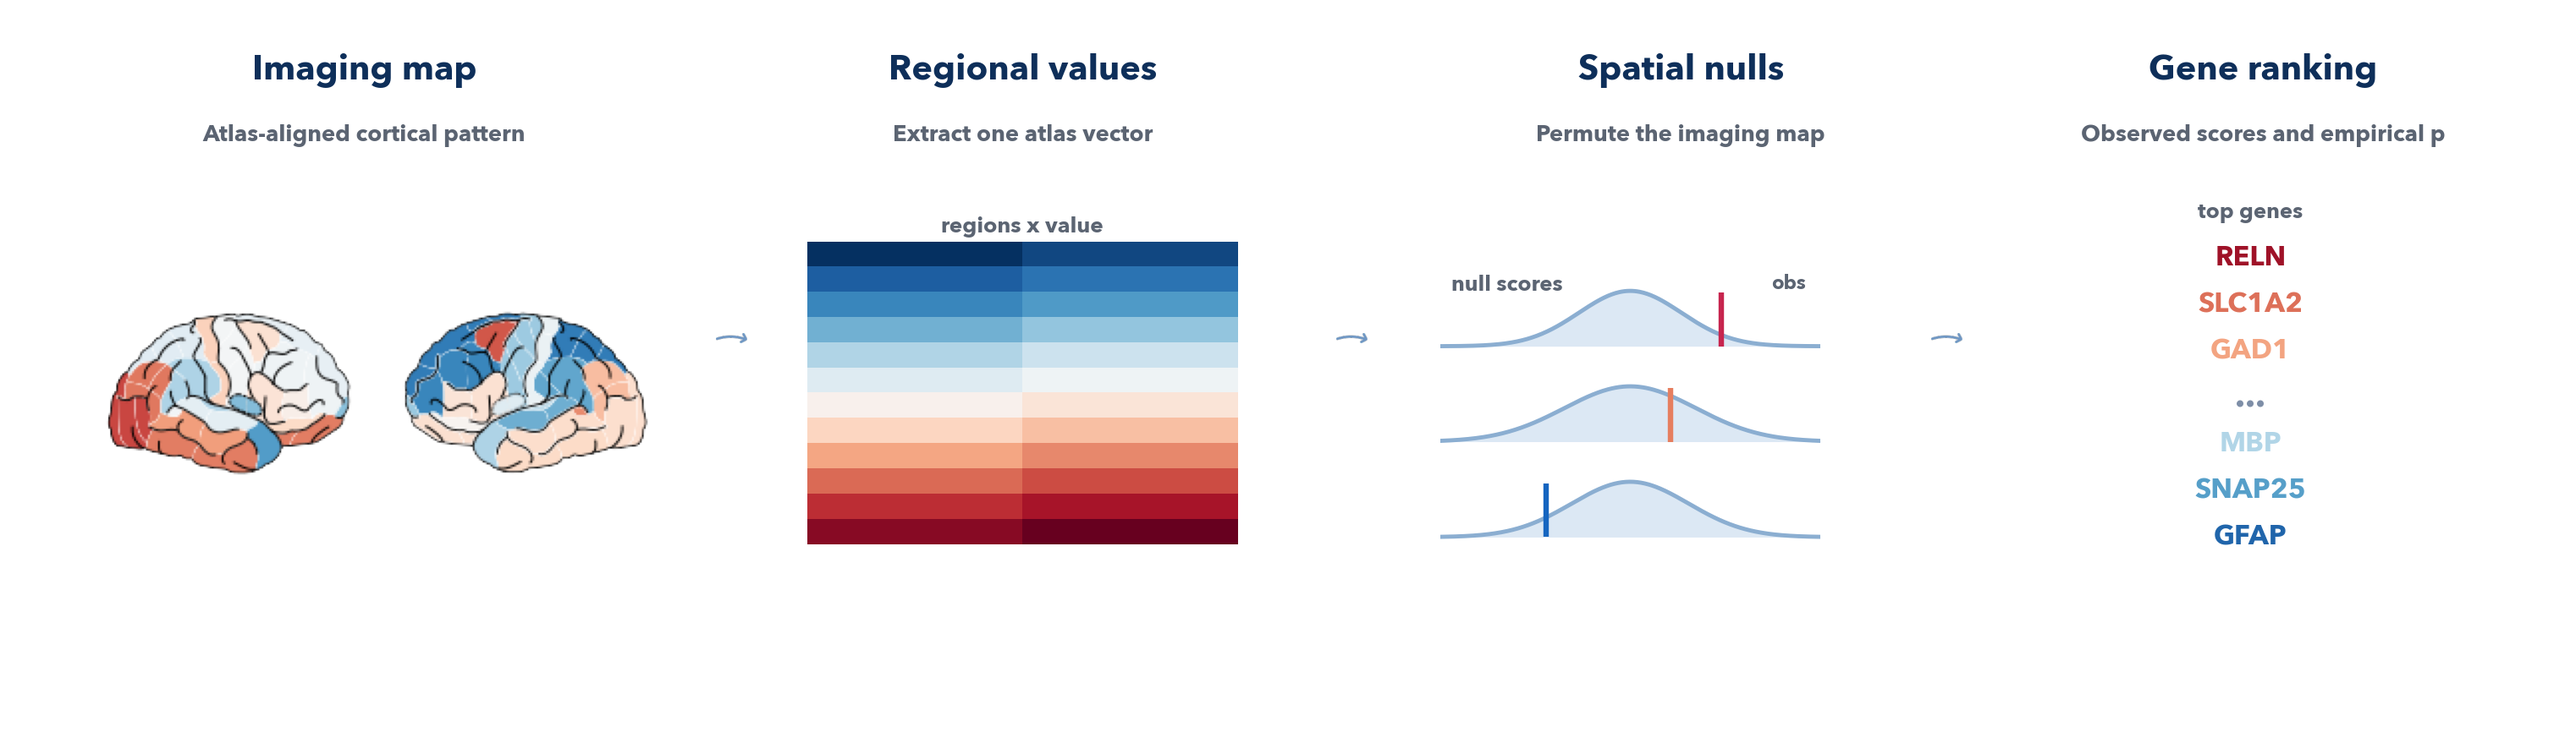
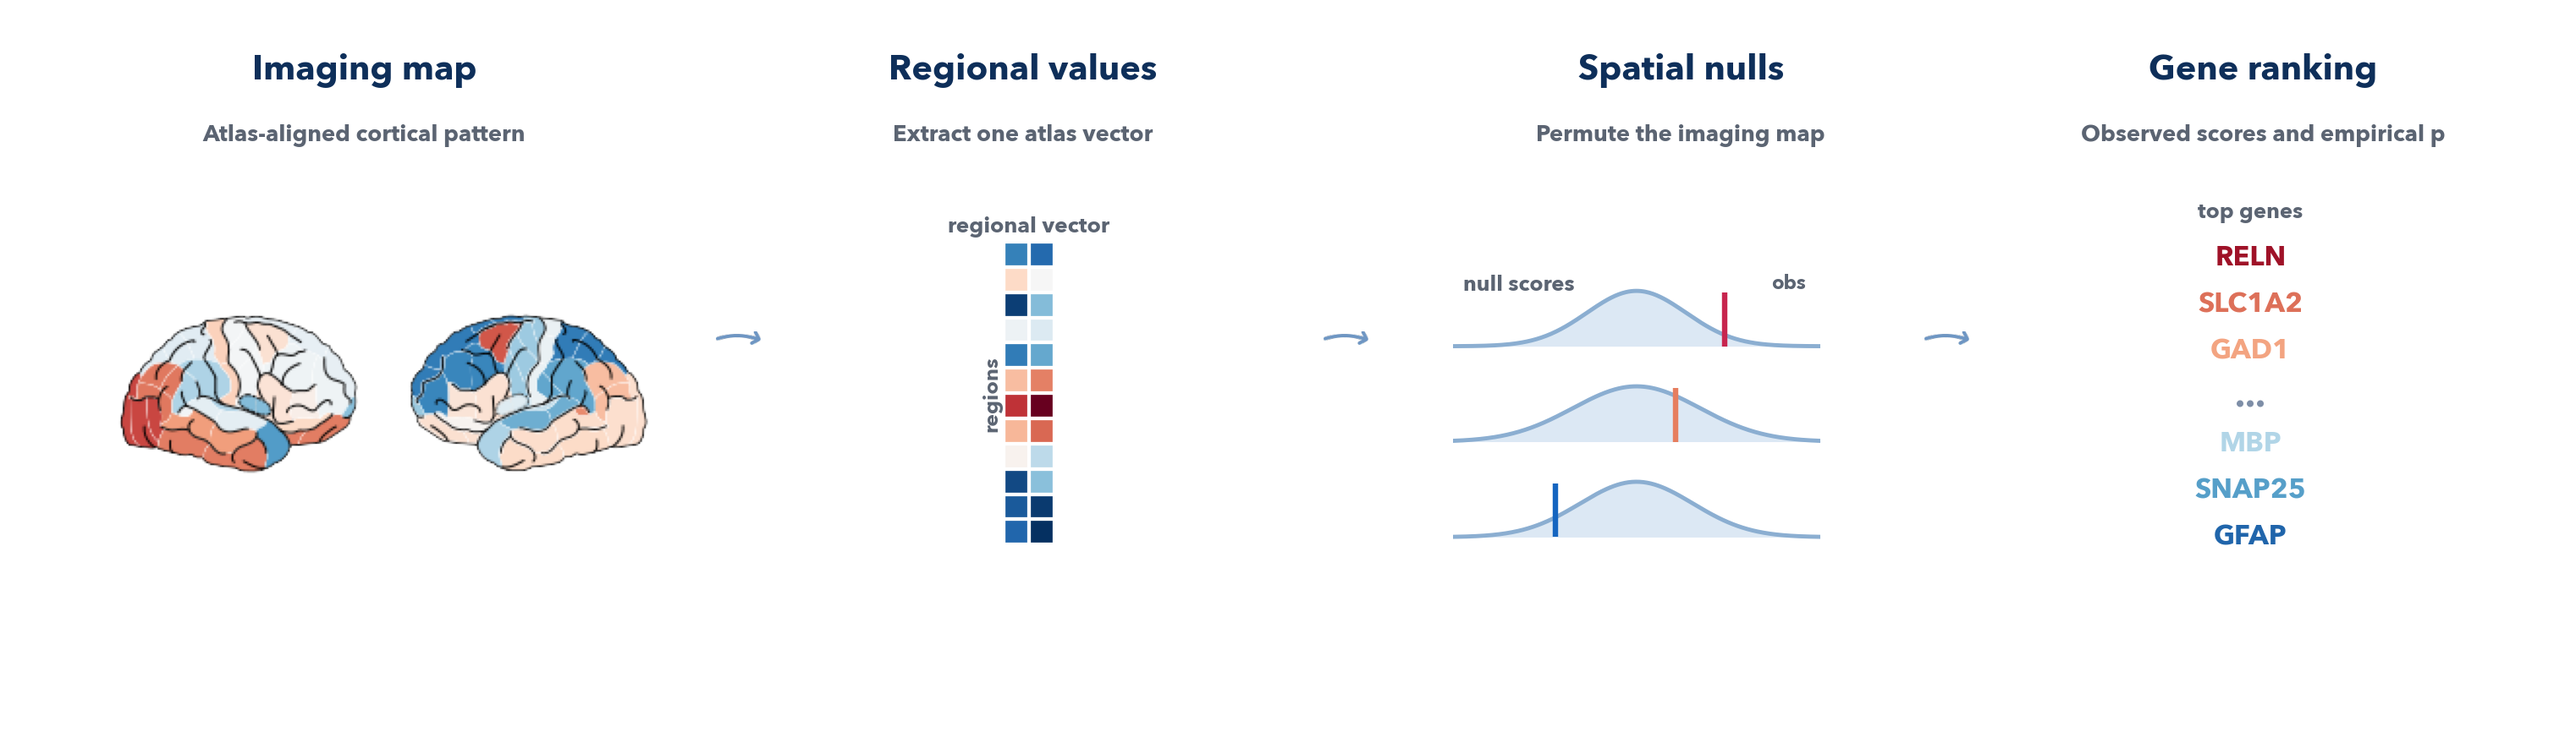
docs: refine workflow figure spacing

diff --git a/tools/render_workflow_story_figures.py b/tools/render_workflow_story_figures.py
@@ -14,6 +14,7 @@ import matplotlib.pyplot as plt
 import numpy as np
 from matplotlib import colormaps
 from matplotlib.colors import Normalize
+from matplotlib.patches import FancyBboxPatch
 from PIL import Image
 
 import pySimpleBrainPlot as psbp
@@ -51,6 +52,30 @@ def _brain_values(seed: int, *, scale: float = 1.9) -> np.ndarray:
     )
     signal /= np.max(np.abs(signal))
     return signal * scale
+
+
+def _smooth_profile(values: np.ndarray, window: int = 3) -> np.ndarray:
+    if values.size <= 1:
+        return values
+    window = min(window, values.size)
+    if window <= 1:
+        return values
+    pad_left = window // 2
+    pad_right = window - 1 - pad_left
+    padded = np.pad(values, (pad_left, pad_right), mode="edge")
+    kernel = np.ones(window) / window
+    return np.convolve(padded, kernel, mode="valid")
+
+
+def _blocky_matrix(rows: int, cols: int, seed: int, *, scale: float = 1.0) -> np.ndarray:
+    rng = np.random.default_rng(seed)
+    row_profile = rng.normal(0, 0.9, rows)
+    col_profile = rng.normal(0, 0.9, cols)
+    row_profile = _smooth_profile(row_profile)
+    col_profile = _smooth_profile(col_profile)
+    data = np.outer(row_profile, col_profile) + 0.28 * rng.normal(size=(rows, cols))
+    data /= np.max(np.abs(data))
+    return data * scale
 
 
 def _trim_image(img: Image.Image, *, pad: int = 6) -> Image.Image:
@@ -161,7 +186,7 @@ def _add_stage_title(fig: plt.Figure, x: float, title: str, subtitle: str) -> No
     )
 
 
-def _add_arrow(fig: plt.Figure, x0: float, x1: float, *, y: float = 0.54, width: float = 0.045) -> None:
+def _add_arrow(fig: plt.Figure, x0: float, x1: float, *, y: float = 0.54, width: float = 0.064) -> None:
     arrow = _load_arrow_image()
     height = width * (arrow.shape[0] / arrow.shape[1])
     left = ((x0 + x1) / 2) - (width / 2)
@@ -176,15 +201,63 @@ def _add_image(fig: plt.Figure, image: np.ndarray, rect: list[float]) -> None:
     ax.axis("off")
 
 
-def _add_heatmap(fig: plt.Figure, rect: list[float], data: np.ndarray, *, cmap: str, title: str | None = None) -> None:
-    ax = fig.add_axes(rect)
-    ax.imshow(data, cmap=cmap, aspect="auto")
+def _style_tile_panel(ax: plt.Axes) -> None:
     ax.set_xticks([])
     ax.set_yticks([])
     for spine in ax.spines.values():
         spine.set_visible(False)
+    ax.set_facecolor("none")
+
+
+def _add_heatmap(
+    fig: plt.Figure,
+    rect: list[float],
+    data: np.ndarray,
+    *,
+    cmap: str,
+    title: str | None = None,
+    left_label: str | None = None,
+    left_label_x: float = -0.16,
+    title_pad: float = 4.0,
+    rounded: bool = True,
+) -> None:
+    ax = fig.add_axes(rect)
+    if rounded:
+        bg = FancyBboxPatch(
+            (0.0, 0.0),
+            1.0,
+            1.0,
+            boxstyle="round,pad=0.02,rounding_size=0.05",
+            transform=ax.transAxes,
+            facecolor="#F4F8FC",
+            edgecolor="#D7E3F0",
+            linewidth=0.8,
+            zorder=-20,
+        )
+        ax.add_patch(bg)
+
+    ax.imshow(data, cmap=cmap, aspect="equal", interpolation="nearest", zorder=1)
+    ax.set_anchor("C")
+    n_rows, n_cols = data.shape
+    ax.set_xticks(np.arange(-0.5, n_cols, 1), minor=True)
+    ax.set_yticks(np.arange(-0.5, n_rows, 1), minor=True)
+    ax.grid(which="minor", color=(1, 1, 1, 0.92), linewidth=1.4)
+    ax.tick_params(which="minor", bottom=False, left=False)
+    _style_tile_panel(ax)
     if title:
-        ax.set_title(title, fontsize=8.5, color="#5B6472", pad=4)
+        ax.set_title(title, fontsize=8.5, color="#5B6472", pad=title_pad)
+    if left_label:
+        ax.text(
+            left_label_x,
+            0.5,
+            left_label,
+            transform=ax.transAxes,
+            rotation=90,
+            ha="center",
+            va="center",
+            fontsize=8.0,
+            color="#5B6472",
+        )
 
 
 def _add_gene_column(
@@ -244,14 +317,26 @@ def _add_component_summary(fig: plt.Figure, rect: list[float]) -> None:
     ax.set_facecolor("none")
 
 
-def _add_weighted_strip(fig: plt.Figure, rect: list[float]) -> None:
-    ax = fig.add_axes(rect)
+def _add_weighted_strip(
+    fig: plt.Figure,
+    rect: list[float],
+    *,
+    title: str | None = None,
+    left_label: str | None = None,
+    left_label_x: float = -0.16,
+    title_pad: float = 4.0,
+) -> None:
     vals = np.linspace(-1.6, 1.6, 12).reshape(-1, 1)
-    ax.imshow(vals, cmap="RdBu_r", aspect="auto")
-    ax.set_xticks([])
-    ax.set_yticks([])
-    for spine in ax.spines.values():
-        spine.set_visible(False)
+    _add_heatmap(
+        fig,
+        rect,
+        vals,
+        cmap="RdBu_r",
+        title=title,
+        left_label=left_label,
+        left_label_x=left_label_x,
+        title_pad=title_pad,
+    )
 
 
 def _add_null_panel(fig: plt.Figure, rect: list[float]) -> None:
@@ -296,14 +381,22 @@ def render_correlation() -> None:
     _add_stage_title(fig, 0.655, "Spatial nulls", "Permute the imaging map")
     _add_stage_title(fig, 0.885, "Gene ranking", "Observed scores and empirical p")
 
-    _add_image(fig, brain, [0.03, 0.22, 0.22, 0.48])
-    _add_heatmap(fig, [0.31, 0.24, 0.17, 0.44], np.linspace(-1, 1, 24).reshape(12, 2), cmap="RdBu_r", title="regions x value")
-    _add_null_panel(fig, [0.56, 0.23, 0.15, 0.43])
-    _add_gene_column(fig, [0.80, 0.17, 0.16, 0.58], ["RELN", "SLC1A2", "GAD1", "...", "MBP", "SNAP25", "GFAP"], [1.7, 1.1, 0.8, 0.0, -0.6, -1.1, -1.6], heading="top genes")
+    _add_image(fig, brain, [0.035, 0.22, 0.215, 0.48])
+    _add_heatmap(
+        fig,
+        [0.315, 0.24, 0.165, 0.44],
+        _blocky_matrix(12, 2, 21, scale=1.2),
+        cmap="RdBu_r",
+        title="regional vector",
+        left_label="regions",
+        left_label_x=-0.22,
+    )
+    _add_null_panel(fig, [0.565, 0.23, 0.145, 0.43])
+    _add_gene_column(fig, [0.805, 0.17, 0.15, 0.58], ["RELN", "SLC1A2", "GAD1", "...", "MBP", "SNAP25", "GFAP"], [1.7, 1.1, 0.8, 0.0, -0.6, -1.1, -1.6], heading="top genes")
 
-    _add_arrow(fig, 0.245, 0.315)
-    _add_arrow(fig, 0.485, 0.565)
-    _add_arrow(fig, 0.73, 0.79)
+    _add_arrow(fig, 0.25, 0.315)
+    _add_arrow(fig, 0.48, 0.565)
+    _add_arrow(fig, 0.715, 0.805)
     _save(fig, "correlation_pipeline_story.png")
 
 
@@ -315,16 +408,22 @@ def render_pls() -> None:
     _add_stage_title(fig, 0.655, "Latent components", "Find multivariate gene axes")
     _add_stage_title(fig, 0.885, "Component genes", "Inspect aligned weights")
 
-    _add_image(fig, brain, [0.03, 0.22, 0.22, 0.48])
-    matrix = np.outer(np.linspace(-1, 1, 12), np.linspace(1, -1, 10))
-    _add_heatmap(fig, [0.305, 0.21, 0.18, 0.49], matrix, cmap="viridis", title="regions x genes")
-    _add_heatmap(fig, [0.57, 0.28, 0.10, 0.34], np.array([[1.0, -0.5], [0.6, 0.2], [-0.7, 0.9], [-1.0, 0.4], [0.4, -0.9]]), cmap="RdBu_r", title="weights")
-    _add_component_summary(fig, [0.68, 0.30, 0.1, 0.30])
-    _add_gene_column(fig, [0.82, 0.17, 0.14, 0.58], ["CAMK2A", "RELN", "GRIN2B", "...", "MBP", "GFAP", "PDYN"], [1.6, 1.1, 0.7, 0.0, -0.5, -1.0, -1.5], heading="PLS1")
+    _add_image(fig, brain, [0.035, 0.22, 0.215, 0.48])
+    _add_heatmap(fig, [0.31, 0.21, 0.175, 0.49], _blocky_matrix(12, 10, 7), cmap="viridis", title="expression matrix", left_label="regions")
+    _add_heatmap(
+        fig,
+        [0.575, 0.285, 0.09, 0.33],
+        _blocky_matrix(6, 3, 31, scale=1.2),
+        cmap="RdBu_r",
+        title="gene weights",
+        left_label="genes",
+    )
+    _add_component_summary(fig, [0.655, 0.30, 0.11, 0.30])
+    _add_gene_column(fig, [0.81, 0.17, 0.145, 0.58], ["CAMK2A", "RELN", "GRIN2B", "...", "MBP", "GFAP", "PDYN"], [1.6, 1.1, 0.7, 0.0, -0.5, -1.0, -1.5], heading="PLS1")
 
-    _add_arrow(fig, 0.245, 0.31)
-    _add_arrow(fig, 0.495, 0.57)
-    _add_arrow(fig, 0.78, 0.82)
+    _add_arrow(fig, 0.25, 0.31)
+    _add_arrow(fig, 0.49, 0.575)
+    _add_arrow(fig, 0.765, 0.81)
     _save(fig, "pls_pipeline_story.png")
 
 
@@ -336,15 +435,21 @@ def render_gedar() -> None:
     _add_stage_title(fig, 0.62, "Weighted score", "Project the signature regionally")
     _add_stage_title(fig, 0.87, "Regional map", "Visualize the GEDAR pattern")
 
-    _add_gene_column(fig, [0.04, 0.17, 0.15, 0.58], ["CACNA1C", "GRIA1", "RELN", "...", "MBP", "GFAP", "SST"], [1.7, 1.1, 0.7, 0.0, -0.7, -1.1, -1.5], heading="z or beta")
-    _add_heatmap(fig, [0.28, 0.21, 0.18, 0.49], np.outer(np.linspace(-1, 1, 12), np.linspace(1, -1, 6)), cmap="viridis", title="matched expression")
-    _add_weighted_strip(fig, [0.56, 0.26, 0.08, 0.42])
-    _add_gene_column(fig, [0.65, 0.26, 0.09, 0.42], ["R1", "R2", "R3", "...", "R10", "R11", "R12"], neutral=True, heading="regions")
-    _add_image(fig, brain, [0.75, 0.22, 0.22, 0.48])
+    _add_gene_column(fig, [0.04, 0.17, 0.145, 0.58], ["CACNA1C", "GRIA1", "RELN", "...", "MBP", "GFAP", "SST"], [1.7, 1.1, 0.7, 0.0, -0.7, -1.1, -1.5], heading="z or beta")
+    _add_heatmap(fig, [0.285, 0.21, 0.175, 0.49], _blocky_matrix(12, 6, 41), cmap="viridis", title="matched expression", left_label="regions")
+    _add_weighted_strip(
+        fig,
+        [0.565, 0.26, 0.072, 0.42],
+        title="weighted score",
+        left_label="regions",
+        title_pad=14.0,
+    )
+    _add_gene_column(fig, [0.635, 0.26, 0.085, 0.42], ["R1", "R2", "R3", "...", "R10", "R11", "R12"], neutral=True, heading="regions")
+    _add_image(fig, brain, [0.765, 0.22, 0.205, 0.48])
 
-    _add_arrow(fig, 0.205, 0.285)
-    _add_arrow(fig, 0.47, 0.56)
-    _add_arrow(fig, 0.74, 0.755)
+    _add_arrow(fig, 0.195, 0.285)
+    _add_arrow(fig, 0.46, 0.565)
+    _add_arrow(fig, 0.72, 0.765)
     _save(fig, "gedar_pipeline_story.png")
 
 
@@ -356,15 +461,15 @@ def render_gene_pca() -> None:
     _add_stage_title(fig, 0.62, "PCA summary", "Components and variance")
     _add_stage_title(fig, 0.87, "Regional pattern", "Project component scores back to cortex")
 
-    _add_gene_column(fig, [0.04, 0.17, 0.15, 0.58], ["RELN", "GAD1", "SLC1A2", "...", "VIP", "PVALB", "SST"], neutral=True, heading="selected genes")
-    _add_heatmap(fig, [0.28, 0.21, 0.18, 0.49], np.outer(np.linspace(-1, 1, 12), np.linspace(-1, 1, 7)), cmap="viridis", title="regions x genes")
-    _add_heatmap(fig, [0.56, 0.30, 0.08, 0.28], np.array([[0.8, 0.3, -0.1], [0.4, -0.7, 0.2], [-0.6, 0.4, 0.5], [-0.9, 0.2, 0.7], [0.3, -0.4, 0.8]]), cmap="RdBu_r", title="loadings")
-    _add_component_summary(fig, [0.67, 0.30, 0.09, 0.30])
-    _add_image(fig, brain, [0.77, 0.22, 0.20, 0.48])
+    _add_gene_column(fig, [0.045, 0.17, 0.145, 0.58], ["RELN", "GAD1", "SLC1A2", "...", "VIP", "PVALB", "SST"], neutral=True, heading="selected genes")
+    _add_heatmap(fig, [0.285, 0.21, 0.175, 0.49], _blocky_matrix(12, 7, 51), cmap="viridis", title="expression matrix", left_label="regions")
+    _add_heatmap(fig, [0.555, 0.30, 0.078, 0.28], _blocky_matrix(5, 3, 61, scale=1.2), cmap="RdBu_r", title="loadings", left_label="genes")
+    _add_component_summary(fig, [0.632, 0.30, 0.102, 0.30])
+    _add_image(fig, brain, [0.758, 0.22, 0.212, 0.48])
 
-    _add_arrow(fig, 0.205, 0.285)
-    _add_arrow(fig, 0.47, 0.56)
-    _add_arrow(fig, 0.76, 0.775)
+    _add_arrow(fig, 0.195, 0.285)
+    _add_arrow(fig, 0.46, 0.555)
+    _add_arrow(fig, 0.724, 0.758)
     _save(fig, "gene_pca_pipeline_story.png")
 
 
@@ -376,14 +481,14 @@ def render_enrichment() -> None:
     _add_stage_title(fig, 0.67, "GSEA", "Pathways across the whole list")
     _add_stage_title(fig, 0.89, "ORA", "Hits among thresholded genes")
 
-    _add_image(fig, brain, [0.03, 0.22, 0.20, 0.48])
-    _add_gene_column(fig, [0.29, 0.17, 0.18, 0.58], ["RELN", "CAMK2A", "GAD1", "...", "GFAP", "MBP", "PDYN"], [1.8, 1.2, 0.7, 0.0, -0.6, -1.1, -1.7], heading="ranked signal")
-    _add_dotplot(fig, [0.60, 0.22, 0.15, 0.48], ["Synapse", "Interneuron", "Glutamate", "Myelin"], [1.7, 1.0, -0.9, -1.4], [5, 4, 3, 2])
-    _add_heatmap(fig, [0.83, 0.28, 0.11, 0.34], np.array([[1.2, 0.5, -0.4, -1.0], [0.9, 0.2, -0.7, -1.2]]), cmap="RdBu_r", title="up / down")
+    _add_image(fig, brain, [0.035, 0.22, 0.195, 0.48])
+    _add_gene_column(fig, [0.29, 0.17, 0.17, 0.58], ["RELN", "CAMK2A", "GAD1", "...", "GFAP", "MBP", "PDYN"], [1.8, 1.2, 0.7, 0.0, -0.6, -1.1, -1.7], heading="ranked signal")
+    _add_dotplot(fig, [0.605, 0.22, 0.145, 0.48], ["Synapse", "Interneuron", "Glutamate", "Myelin"], [1.7, 1.0, -0.9, -1.4], [5, 4, 3, 2])
+    _add_heatmap(fig, [0.815, 0.28, 0.12, 0.34], _blocky_matrix(2, 4, 71, scale=1.2), cmap="RdBu_r", title="up / down")
 
-    _add_arrow(fig, 0.235, 0.295)
-    _add_arrow(fig, 0.45, 0.51, y=0.595)
-    _add_arrow(fig, 0.75, 0.83)
+    _add_arrow(fig, 0.23, 0.29)
+    _add_arrow(fig, 0.46, 0.605, y=0.595)
+    _add_arrow(fig, 0.75, 0.815)
     _save(fig, "enrichment_pipeline_story.png")
 
 
